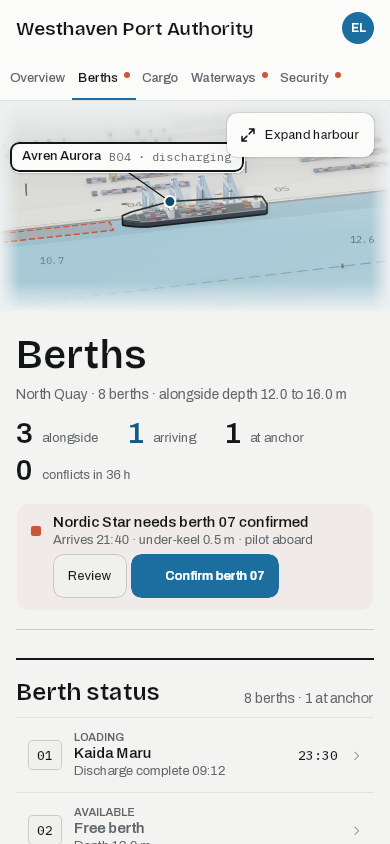
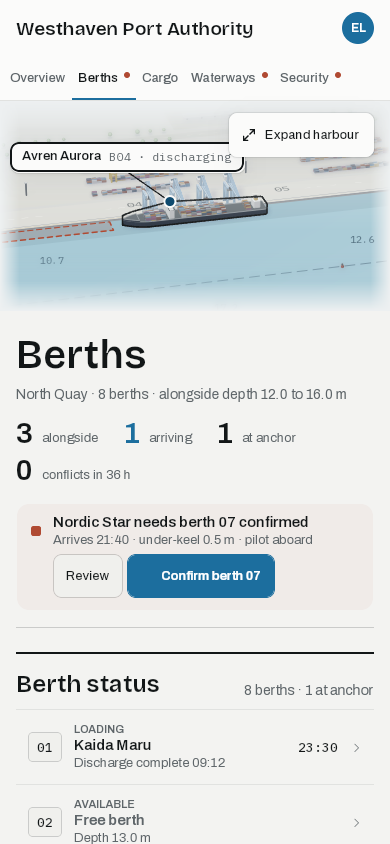
docs: the theme pass in the README, the decisions and the info file
The README's stack line and the design-token and theme sections say where the look comes from now:
the palette override, the role brushes, App.xaml's no-role colours, the type scale and the theme's
spacing and radius tokens. DECISIONS.md records D-C10 to D-C14 (the role mapping and the near-twins
folded into roles, the buttons, the scanner's Dark stage, the token snaps, the text styles). The agent
context's theming lines follow, uno-sample.json is regenerated, and the inspection and Berths phone
screenshots are retaken (the other two did not change visibly).

Claude-Session: https://claude.ai/code/session_018xTsJQBTiLfieqJekJ23K3

diff --git a/README.md b/README.md
@@ -49,7 +49,8 @@ service and logger. They never start the Uno runtime, so the models hold states 
 ## Architecture
 
 - **Uno.Sdk 7.0.0-dev.115** (Uno 7 dev build, SkiaSharp 4), single project, Skia renderer,
-  `SimpleTheme` + Uno Toolkit, Light and Dark. Hot Design and the App MCP are off in Debug while this dev SDK's
+  the Simple theme (`SimpleToolkitTheme`) + Uno Toolkit, Light and Dark, with the design's palette in
+  `Styles/ColorPaletteOverride.xaml` and its type scale in `Styles/TypographyOverride.xaml`. Hot Design and the App MCP are off in Debug while this dev SDK's
   clients still reference `Uno.UI.Lottie` (see `Cargo.csproj`).
 - **MVVM (`CommunityToolkit.Mvvm`)**, not MVUX. Every figure in this app is an in-memory
   constant; there is no async or reactive data flow for feeds to model. What the app
@@ -73,7 +74,8 @@ service and logger. They never start the Uno runtime, so the models hold states 
 - **Layers.** `Domain/` is the port: its data, the berth rules, the clock arithmetic and the store with its parts; it
   holds no UI type, which is why the unit tests can drive it and every view model. `Presentation/` holds the view models,
   the views and the app's `DispatcherClock`; `Controls/` the canvas scenes and the geometry helpers (`Geo`);
-  `Themes/` the XAML resources and their code side (`Tokens` for the palette, `Motion` for the reduced-motion choice).
+  `Styles/` the theme's palette and type-scale overrides; `Themes/` the app's styles, layout values and icons and their
+  code side (`Tokens` for the palette in code, `Motion` for the reduced-motion choice).
 - **Navigation** is Uno Navigation. The route tree (`App.xaml.cs` `RegisterRoutes`) is
   Shell > Main > one view-less route per section, and Security's tabs nest under `security`.
   `MainPage` declares the sections as `x:Load` panes in its Visibility region; the header
@@ -86,18 +88,30 @@ service and logger. They never start the Uno runtime, so the models hold states 
   the width it is given and the page never scrolls sideways; below 1000 every control is a 44 px target.
   `Controls/FlowPanel.cs` wraps figures, legends, chips and button rows; `TileGridPanel` takes responsive
   column widths.
-- **Design tokens** live in `Themes/Tokens.xaml` (colour, type) and `Themes/Layout.xaml` (the spacing
-  scale, insets, radii and the sizes that recur); `Themes/Tokens.cs` resolves colours for code so no
-  colour literal appears outside that one file. Pages take gaps, insets and radii from Layout.xaml; the
-  literals left are zeros, circles and pills (half their height) and one-off sizes that place art.
+- **The look comes from Uno.Themes.** The palette is one file, `Styles/ColorPaletteOverride.xaml`, read by the theme
+  (`SimpleToolkitTheme.Colors` > `ThemeColors.OverrideSource` in App.xaml): every role in Light and Default (Dark)
+  from the design's token table, and the file Uno Platform Studio's Themes tab edits. Pages and code use the role
+  brushes the theme generates: `OnSurfaceBrush` for ink, `OnSurfaceVariantBrush` for secondary text,
+  `BackgroundBrush` for the page, `SurfaceBrush` for panels, `SurfaceVariantBrush` for sunk grounds and tonal
+  buttons, `SurfaceInverseBrush` with `OnSurfaceInverseBrush` for the ink buttons and chips, `PrimaryBrush` with
+  `OnPrimaryBrush` for the accent, `ErrorBrush` and `ErrorContainerBrush` for needs-you, `OutlineBrush` and
+  `OutlineVariantBrush` for rules and edges. Colours no role covers (data series, statuses, the maps and the 3D
+  harbour, cargo classes, liveries) are App.xaml's own, in its Light and Default dictionaries: the only hex besides
+  the palette. Text is on the theme's type scale: `Styles/TypographyOverride.xaml` sets the design's ramp once (the
+  size and weight of every semantic style, `DisplayLarge` ... `CaptionSmall`) over `DefaultFontFamily` (Archivo;
+  font manifests map weights to the static faces). The role text styles are based on the semantic styles; the
+  colourless `Type*` styles (labels that take their button's colour) are built from the same keys. Spacing, radii and control sizes are the theme's `Space*`, `Radius*CornerRadius`, `ControlHeight*` and
+  `IconSize*` tokens from `DefaultSpacing` 8 and `DefaultCornerRadius` 4; `Themes/Layout.xaml` keeps what no token
+  says (chip insets, page frames, the swatch). Secondary and accent buttons are the theme's tonal and filled
+  buttons. `Themes/Tokens.cs` resolves the same roles for code, so no colour literal appears in C#.
 - **Themes.** Light is the design's palette; Dark is the same desk at night (a blue-black
   page, cool off-white ink, the three blues re-spaced, status inks re-picked, every text colour
-  at 4.5:1 or better). Every themed colour and brush sits in Light and Dark theme dictionaries
-  and the XAML takes them through `{ThemeResource}`. Code asks `Themes/Tokens.cs`, which resolves
-  for the window's theme, recolours every brush it handed out when the theme changes, and raises
-  `ThemeChanged` so canvas scenes that keep colours (blends, gradients, Skia paints) redraw
-  (`Controls/Live.RebuildOnTheme`). Paint stays invariant: cargo classes, container liveries,
-  white paint, the 3D model's paint and the dark scanner stage. The account menu (the avatar)
+  at 4.5:1 or better). The XAML takes every brush through `{ThemeResource}`. Code asks `Themes/Tokens.cs`, which
+  resolves for the window's theme, recolours every brush it handed out when the theme or the palette changes, and
+  raises `ThemeChanged` so canvas scenes that keep colours (blends, gradients, Skia paints) redraw
+  (`Controls/Live.RebuildOnTheme`); the tide chart takes its brushes from its default style (`Themes/Generic.xaml`).
+  Paint stays invariant: cargo classes, container liveries, white paint and the 3D model's paint. The scanner's
+  stage is the Dark theme in both themes (`RequestedTheme="Dark"` on its panel). The account menu (the avatar)
   offers System, Light and Dark; System is the default and follows the device, and
   Uno.Extensions' theme service applies and saves the choice.
 - **The harbour** (`Controls/Harbour/`) is a true-scale 3D scene on `SKCanvasElement`

diff --git a/docs/DECISIONS.md b/docs/DECISIONS.md
@@ -91,6 +91,49 @@ Reason: the guide asks for absolute URLs; whether relative paths may be used ins
 (uno-private#2444).
 Tradeoff: until the move, the gallery card's links are dead; the files themselves are in `.studiolive/`.
 
+## Made for the theme pass (2026-11-05)
+
+### D-C10 · The design's palette is the Simple theme's palette · proposed
+Decision: `Styles/ColorPaletteOverride.xaml` sets every role in Light and Default from the design's token table, and
+the app uses the role brushes: Ink -> OnSurface (SurfaceInverse for ink grounds), Paper -> Background, Surface ->
+Surface, SurfaceSunk -> SurfaceVariant, TextMuted -> OnSurfaceVariant, Accent -> Primary, AlertInk -> Error, Alert at
+12% -> ErrorContainer, the 18% and 8% ink hairlines -> Outline and OutlineVariant. Near-twins fold into the role:
+TextFaint and TextMuted (OnSurfaceVariant), SurfaceSunkAlt and SurfaceSunk (SurfaceVariant), PaperWarm and Paper,
+AccentDark as text (Primary), Alert marks and Restricted (Error), the shadow ring (OnSurface).
+Reason: Uno Platform Studio's Themes tab edits the palette; a mirrored key would ignore it.
+Tradeoff: Light secondary text loses the 0.3 step between muted and faint; Dark faint text gets lighter (#8C969B ->
+#A1ABB0); alert marks are AlertInk's tone; the emphasis accent text is the accent itself.
+
+### D-C11 · Ink buttons keep their own template; tonal and accent buttons are the theme's · proposed
+Decision: GhostButton and QueueSecondaryButton are based on `FilledTonalButtonStyle`, PrimaryActionButton,
+QueuePrimaryButton and AccentButton on `FilledButtonStyle`; their hover and press are the theme's state colours. The
+ink button (PrimaryButton), BareButton and NavTabButton keep their own small templates.
+Reason: the theme has no inverse filled button (its filled template's hover keys are the Primary variants), no
+chromeless hit target and no tab with a hover line.
+Tradeoff: the tonal and accent buttons no longer fade on hover.
+
+### D-C12 · The scanner's stage is the Dark theme · proposed
+Decision: the scanner panel sets `RequestedTheme="Dark"` and uses the roles; code asks `Tokens` for the Dark theme.
+Reason: the stage is dark in both themes, which is what the Dark palette is; invariant on-dark tokens would ignore a
+palette change.
+Tradeoff: the stage's accent is the Dark Primary (#6CB4E4, was the water blue #5598C4).
+
+### D-C13 · Spacing, radii and sizes snap to the theme's scale · proposed
+Decision: DefaultSpacing 8 and DefaultCornerRadius 4; spacing 14 -> 12, 18 -> 16, 28 -> 24; the control group radius
+10 -> 8 and the card radius 18 -> 16; icons 18 and 14 -> 16; buttons take the theme button's 12 px inset. Chip insets
+whose axes differ by more than a step, page frames and one top-corner radius stay in `Themes/Layout.xaml`.
+Reason: a density, spacing or radius change on the theme reaches every screen.
+Tradeoff: 2 px shifts in gaps and radii; buttons are a few px taller where no MinHeight set them.
+
+### D-C14 · Role text styles on the semantic styles; colourless type from the same keys · proposed
+Decision: Styles/TypographyOverride.xaml (FontOverrideSource) sets the design's ramp on the semantic styles over
+DefaultFontFamily Archivo, with Bricolage Grotesque for Display and HeadlineSmall and MonoFontFamily for figures. The
+role text styles (BodyText, CaptionText, PanelHeadingText...) are based on the semantic styles with NoWrap; the
+colourless Type* styles set only the ramp's family, size and weight keys.
+Reason: Simple's semantic text styles also set OnSurfaceBrush, wrapping and trimming, which turned labels inside
+accent buttons dark and wrapped single-line captions.
+Tradeoff: text in buttons and chips does not use a semantic Style object, only its keys.
+
 ## Still open (owner questions, unchanged)
 
 - Should dragging the waiting arrival off her reserved berth settle the decision, or need a confirm on the new berth?
